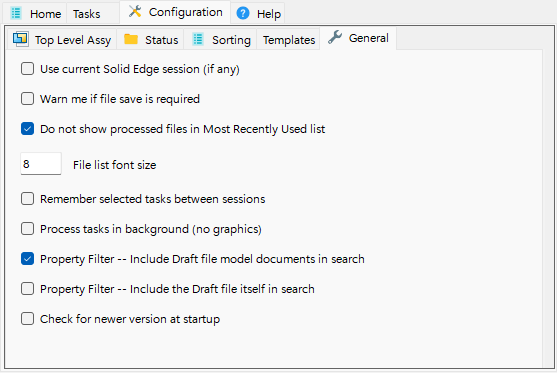
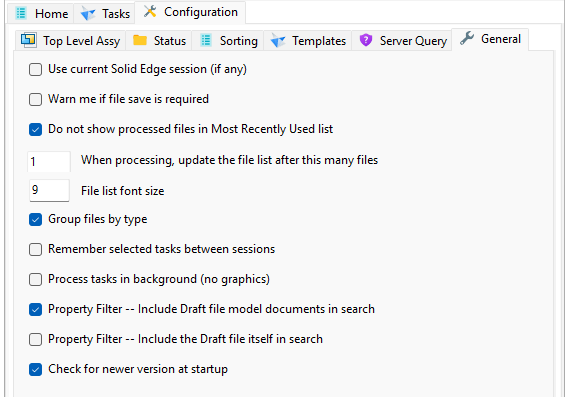
Documentation and cleanup

Changed region(s): [[0.0, 0.0, 0.9156, 1.0], [0.9767, 0.059, 1.0, 1.0]]

diff --git a/README.md b/README.md
@@ -569,6 +569,8 @@ Normally Housekeeper will not start if Solid Edge is open.  This is to protect y
 This is a way for me to wag my finger one last time, reminding you to back up files before using the program.  It is enabled by default.  It's very annoying and you'll want to turn it off.  Just don't forget, I told you to make backups!
 - `Do not show processed files in Most Recently Used List`
 This keeps from clogging up Solid Edge's file list with those processed in batch mode.
+- `Update list after this many files`
+This controls the file list update frequency.  Setting it to `1` means update the list after each file is processed.  This is normally what you want.  However, you may want to increase it for Structured Storage mode, where updating the list is sometimes the most time-consuming part.
 - `File list font size`
 This allows you to change the font size of the file list.
 - `Remember selected tasks between sessions`

diff --git a/release_notes.md b/release_notes.md
@@ -139,9 +139,11 @@ Added a Table of Contents to the Readme file to improve navigation.  (Thank you 
 
 Added a `Keep duplicates` option for the Sort Order `None`.
 
-Removed program dependencies on some outdated packages.
+Added a parameter, `Update the file list after this many files`, to the **Configuration Tab -- General Page**.  The default, `1`, is usually a good choice.  It can be increased for Structured Storage mode, where updating the list is sometimes the most time-consuming part.
 
 Fixed an issue where the Print Task Sheet Selector was not displaying ISO sheet sizes.
+
+Removed program dependencies on some outdated packages.
 
 ## V2024.3 Enhancements/Fixes
 
